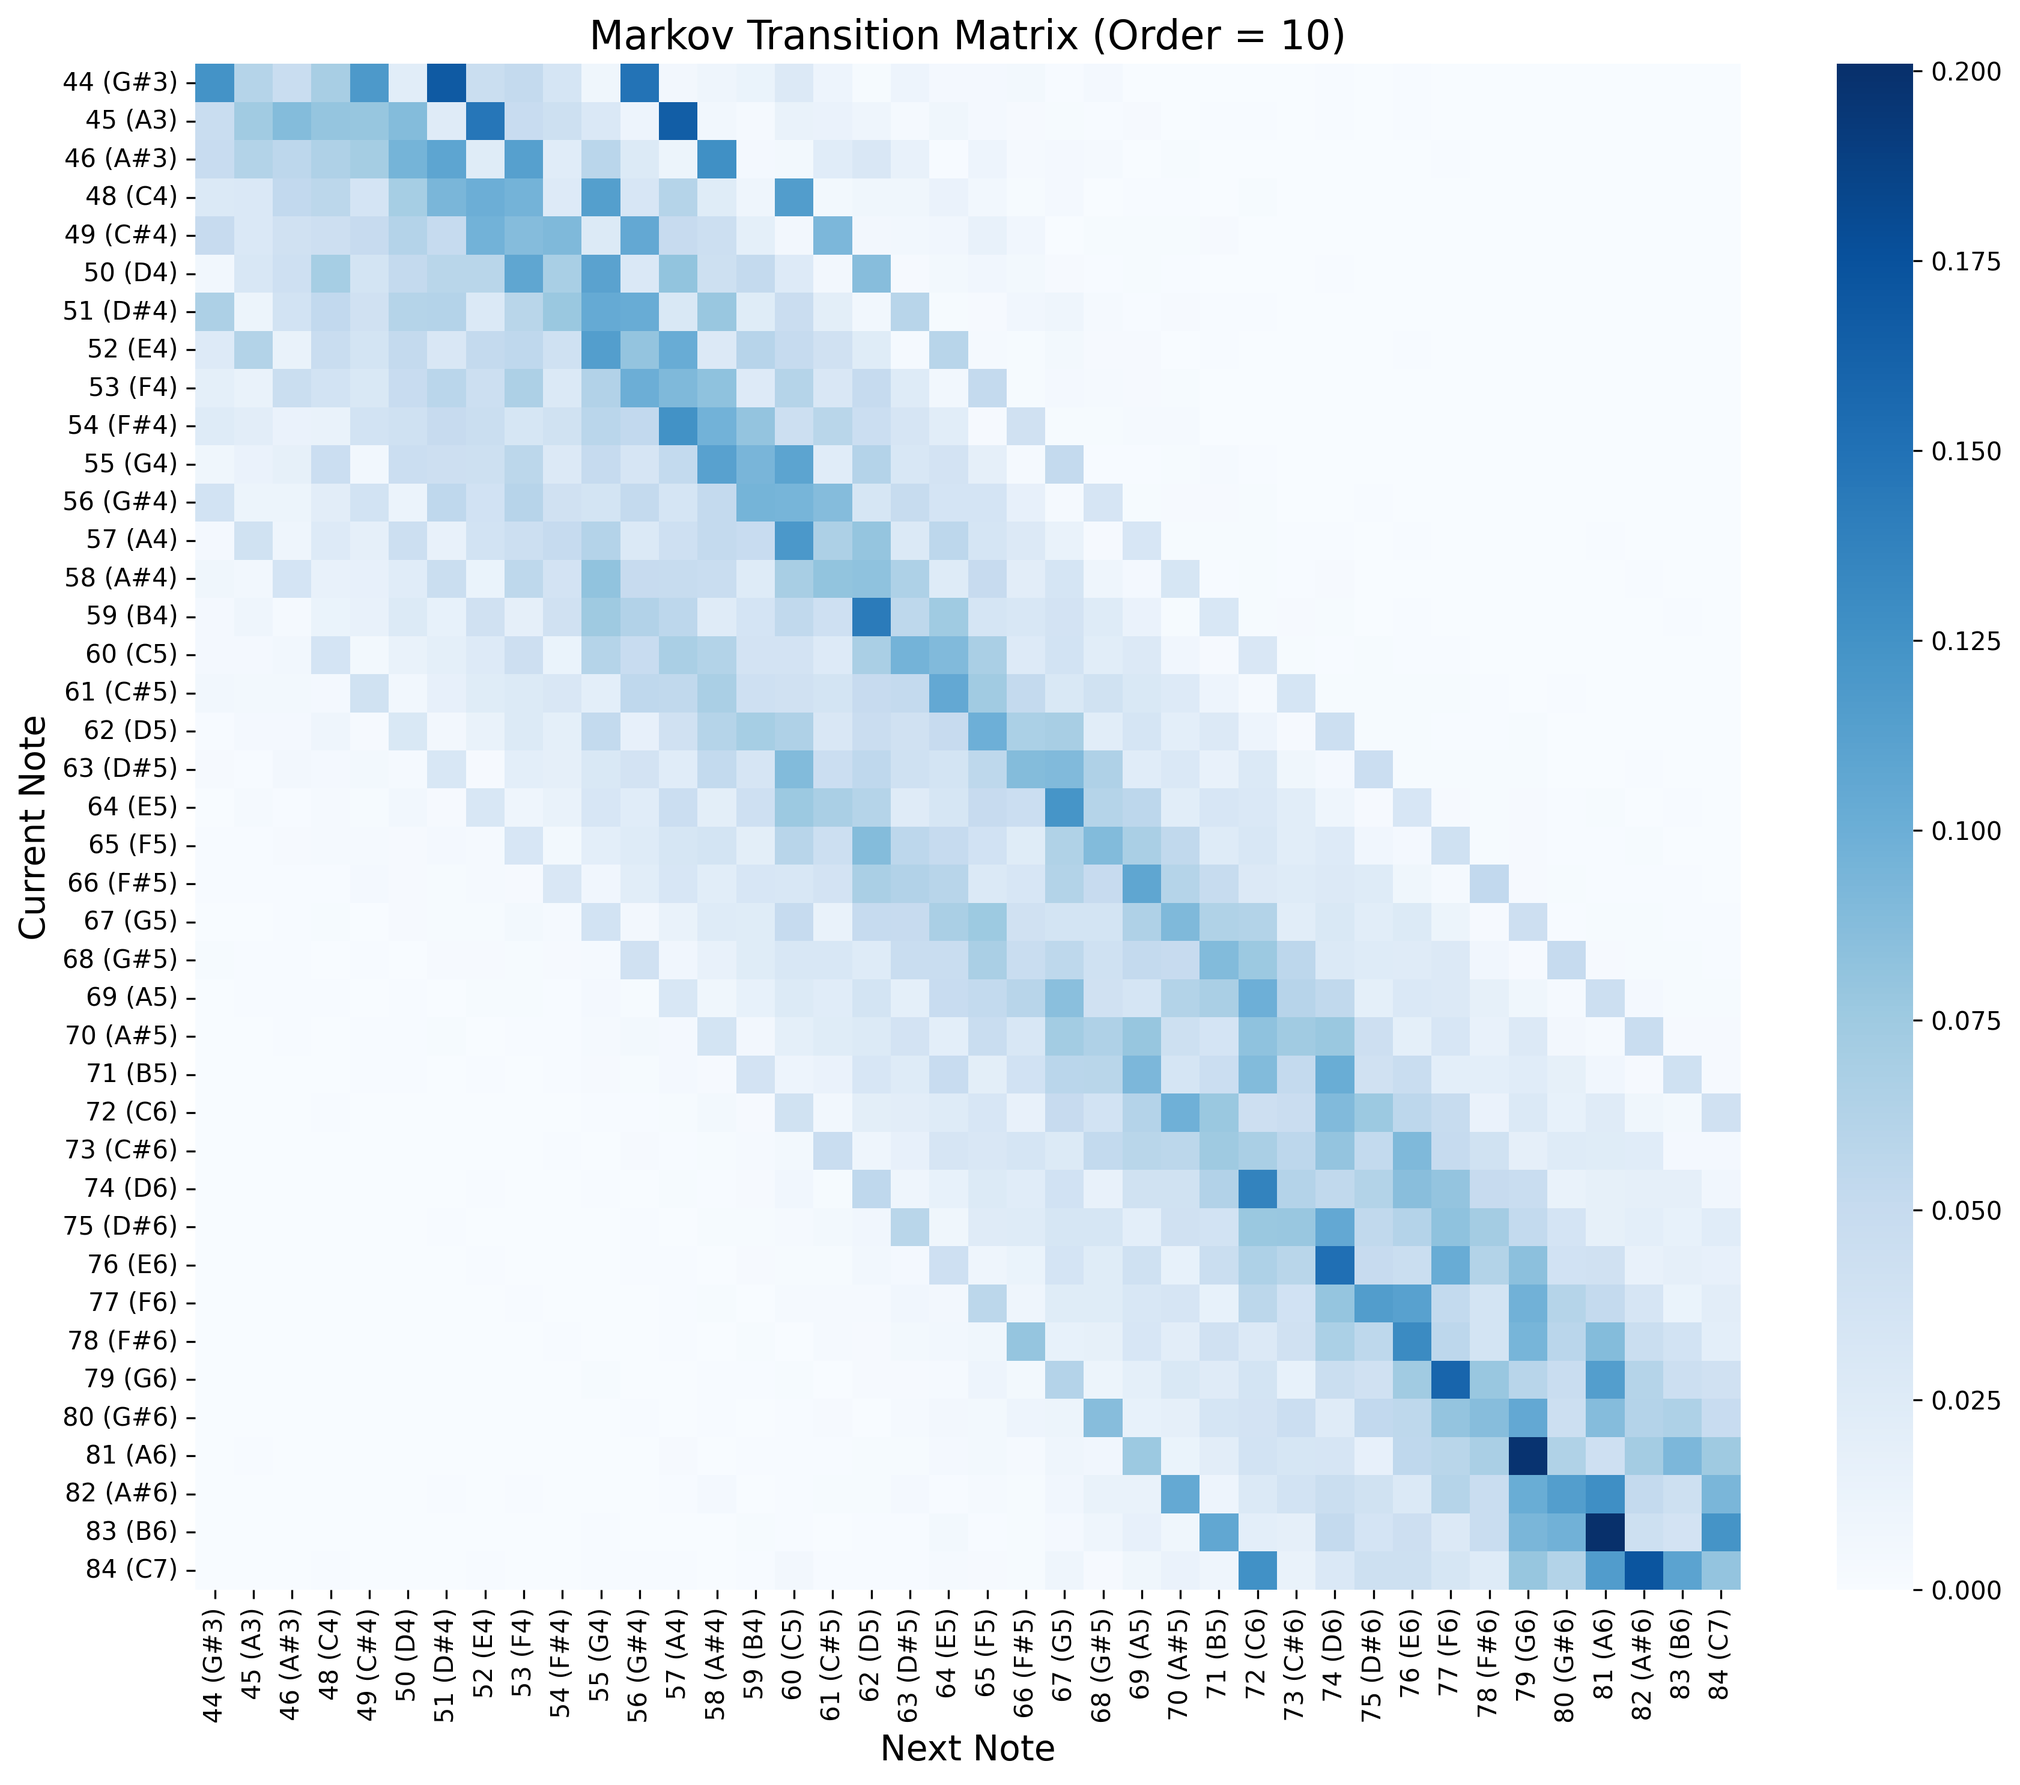
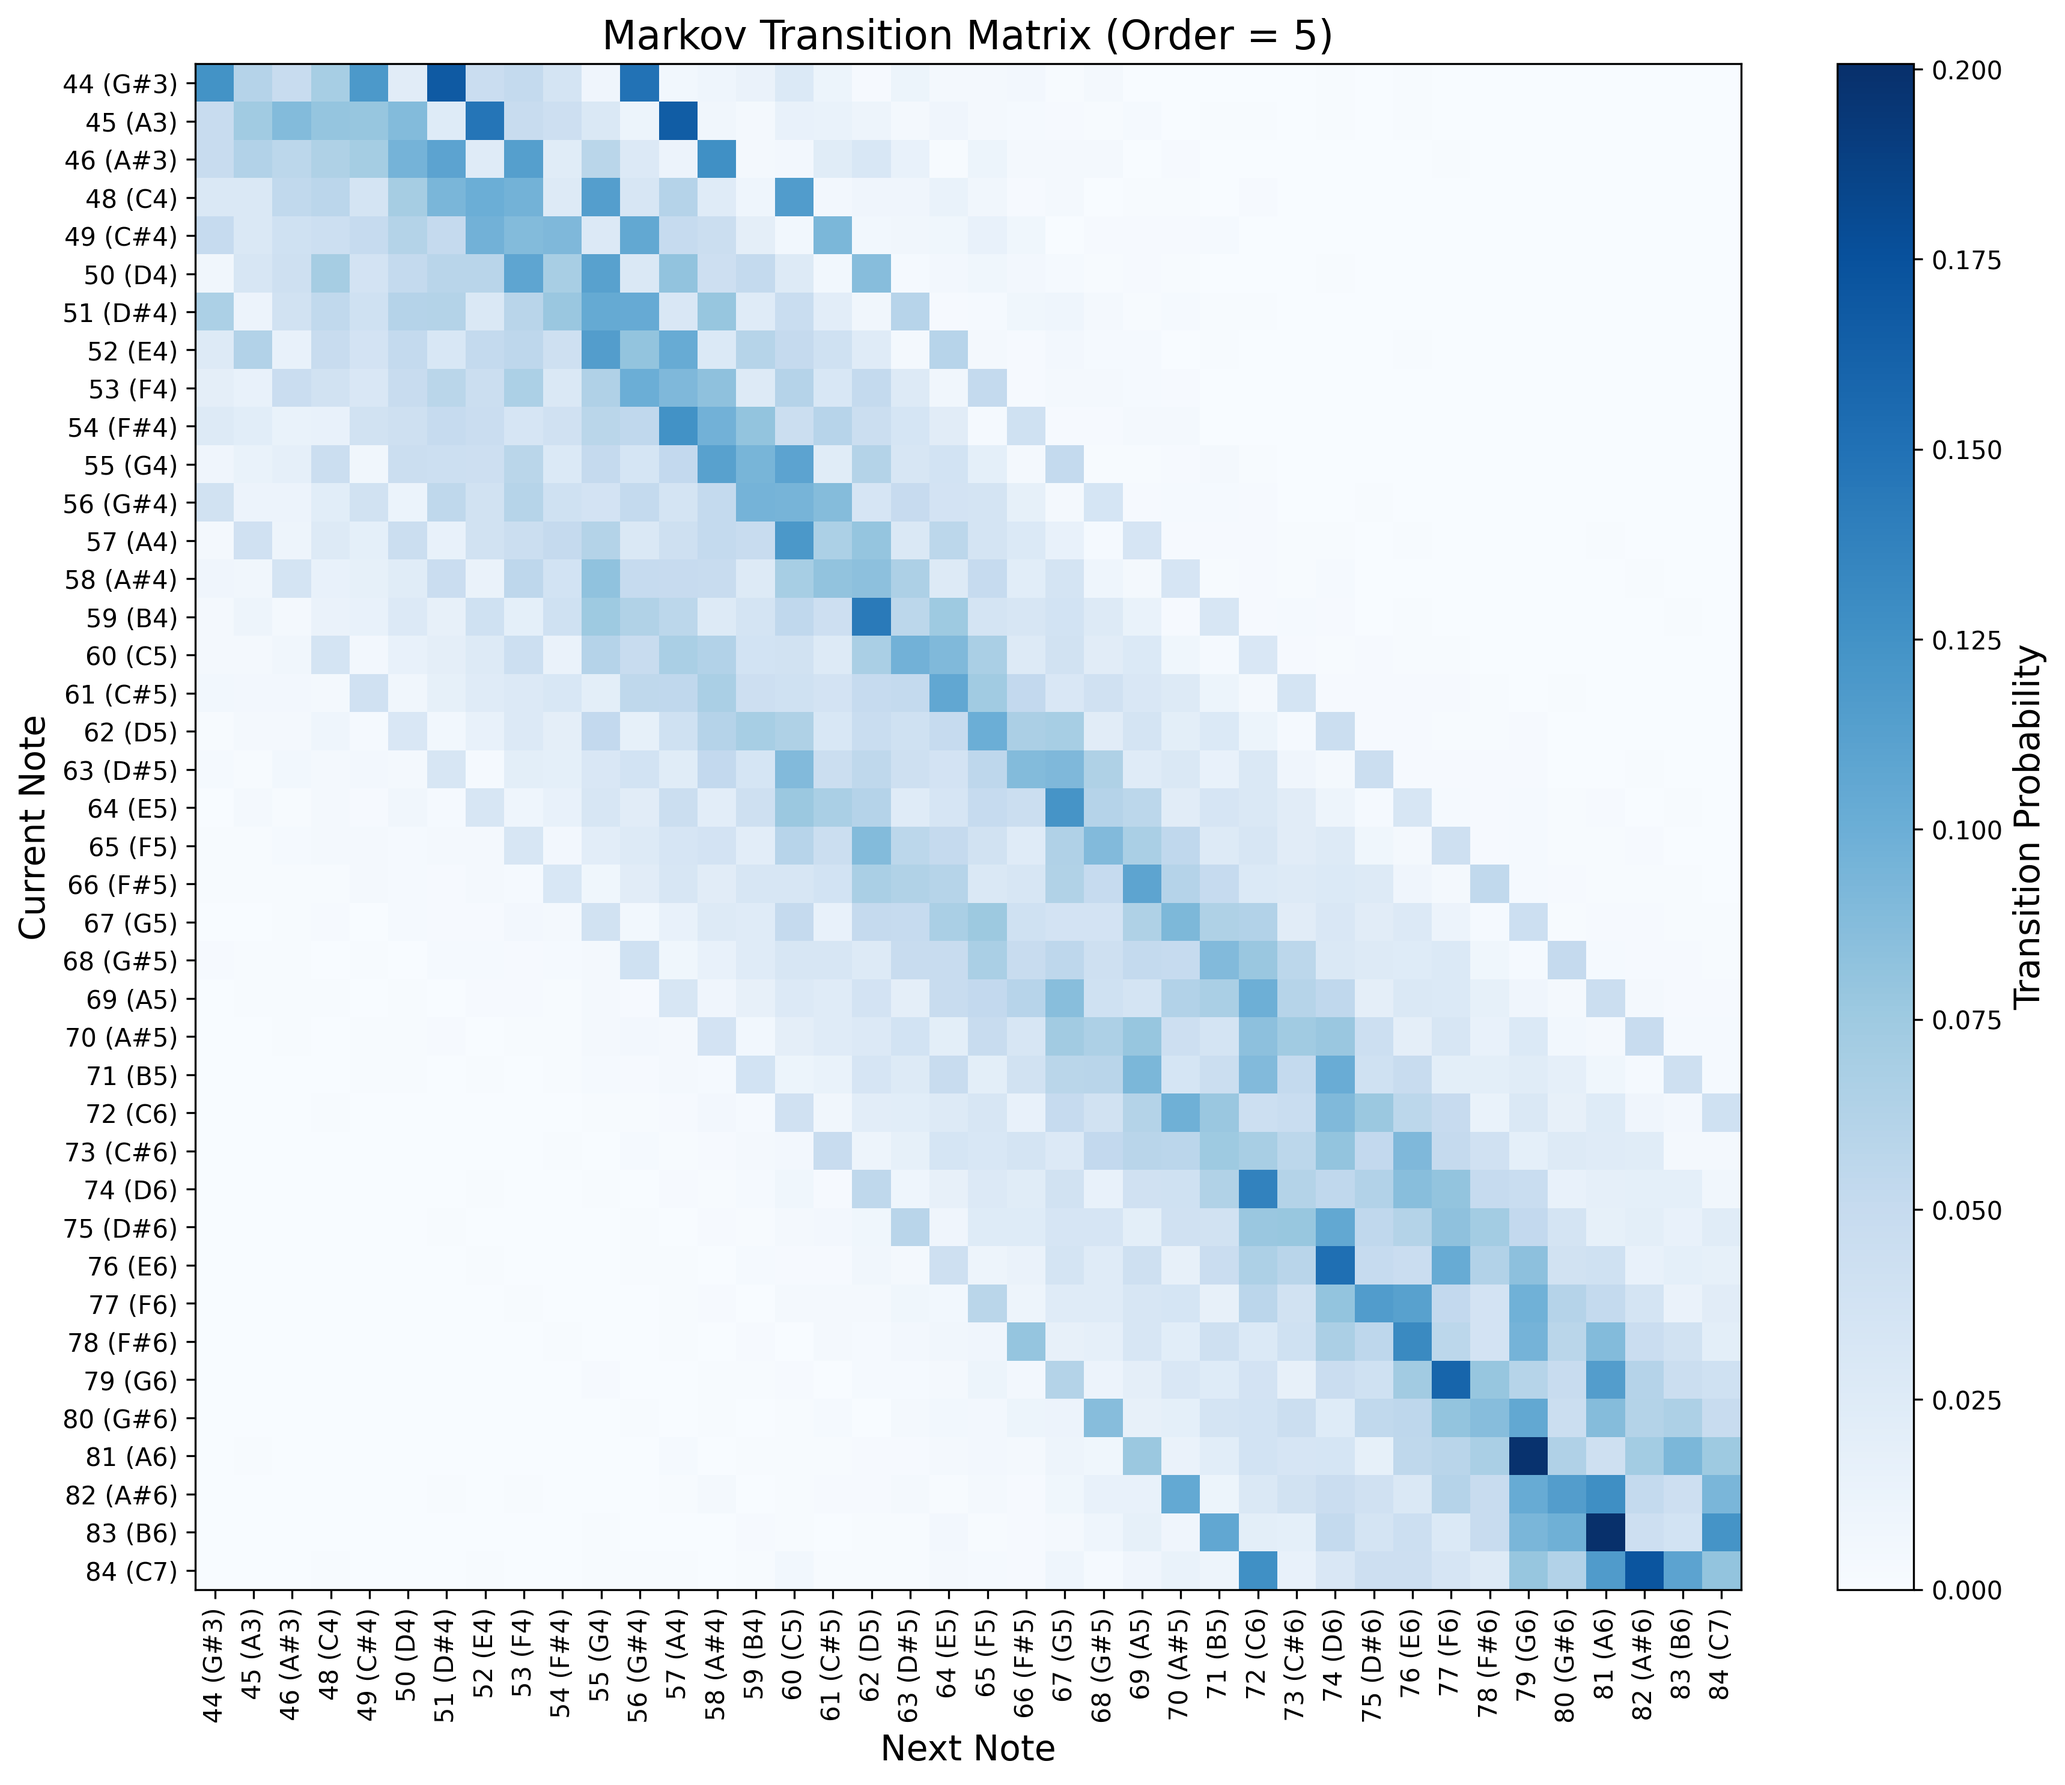
Update

diff --git a/theory.py b/theory.py
@@ -8,31 +8,22 @@ SCALES = { # scales as semitones up from root
     }
     
 PROGRESSIONS = { # common chord progressions (as scale degrees)
-    'major': [
-        [1, 4, 5, 1],  # I-IV-V-I
-        [1, 6, 4, 5],  # I-vi-IV-V
-        [1, 4, 6, 5],  # I-IV-vi-V
-        [6, 2, 5, 1],  # vi-ii-V-I
-        [1, 5, 6, 4],  # I-V-vi-IV
-    ],
-    'minor': [
-        [1, 4, 5, 1],  # i-iv-v-i
-        [1, 6, 3, 7],  # i-VI-III-VII
-        [1, 7, 6, 5],  # i-VII-VI-v
-        [1, 4, 7, 3],  # i-iv-VII-III
-        [6, 7, 3, 5],  # VI-VII-III-v
-    ]
-}
+    'major': [[1, 4, 5, 1],  # I-IV-V-I
+              [1, 6, 4, 5],  # I-vi-IV-V
+              [1, 4, 6, 5],  # I-IV-vi-V
+              [6, 2, 5, 1],  # vi-ii-V-I
+              [1, 5, 6, 4]],  # I-V-vi-IV
+    'minor': [[1, 4, 5, 1],  # i-iv-v-i
+              [1, 6, 3, 7],  # i-VI-III-VII
+              [1, 7, 6, 5],  # i-VII-VI-v
+              [1, 4, 7, 3],  # i-iv-VII-III
+              [6, 7, 3, 5]]  # VI-VII-III-v
+            }
 
 class MusicTheory:
-    """
-    Music theory basics for more informed melodic generation.
-    """
     @staticmethod
     def get_scale_notes(key, scale_type):
-        """
-        Get notes in a scale given key and scale type.
-        """
+        """Get notes in a scale given key and scale type."""
         base_note = key % 12  # normalize to octave
         intervals = SCALES.get(scale_type, SCALES['major']) # default major
         
@@ -48,18 +39,14 @@ class MusicTheory:
     
     @staticmethod
     def get_chord_notes(key, scale_degree, scale_type):
-        """
-        Get the notes in a chord based on scale degree. 
-        """
+        """Get the notes in a chord based on scale degree."""
         scale = MusicTheory.get_scale_notes(key, scale_type)
         
         # adjust for 1-based indexing of scale degrees
         degree_idx = scale_degree - 1
         
-        # get chord root note from the scale
+        # get chord root note from the scale, triad intervals are 1, 3, 5
         root_idx = degree_idx
-
-        # triad intervals are 1, 3, 5
         third_idx = (root_idx + 2) % 7
         fifth_idx = (root_idx + 4) % 7
         
@@ -77,17 +64,13 @@ class MusicTheory:
     
     @staticmethod
     def is_in_key(note, key, scale_type):
-        """
-        Check if note belongs to a specific key.
-        """
+        """Check if note belongs to a specific key."""
         scale_notes = MusicTheory.get_scale_notes(key, scale_type)
-        return note % 12 in [sn % 12 for sn in scale_notes]
+        return note % 12 in [scale_note % 12 for scale_note in scale_notes]
     
     @staticmethod
     def get_nearest_scale_note(note, key, scale_type):
-        """
-        Get nearest note that belongs to the scale.
-        """
+        """Get nearest note that belongs to the scale."""
         if MusicTheory.is_in_key(note, key, scale_type):
             return note
             
@@ -96,9 +79,7 @@ class MusicTheory:
     
     @staticmethod
     def generate_chord_progression(scale_type):
-        """
-        Generate random chord progression for a given key.
-        """
+        """Generate random chord progression for a given key."""
         if scale_type.endswith('minor'): progressions = PROGRESSIONS['minor']
         else: progressions = PROGRESSIONS['major']
         return random.choice(progressions)

diff --git a/utils.py b/utils.py
@@ -1,13 +1,13 @@
 import os
 import mido
 import numpy as np
-import seaborn as sns
 import matplotlib.pyplot as plt
 
 from collections import Counter, defaultdict
 from mido import MidiFile, MidiTrack, Message
 from sklearn.decomposition import PCA
 from sklearn.preprocessing import StandardScaler
+
 class MIDIProcessor:
     def __init__(self):
         """Class to extract note sequences from MIDI files."""
@@ -242,14 +242,17 @@ def visualize_transition_matrix(model, output_filename, max_notes=40):
     note_names = ['C', 'C#', 'D', 'D#', 'E', 'F', 'F#', 'G', 'G#', 'A', 'A#', 'B']
     labels = [f"{note} ({note_names[note % 12]}{note // 12})" for note in all_notes]
     
-    # make the heatmap
-    plt.figure(figsize=(12, 10))
-    sns.heatmap(matrix, cmap='Blues', xticklabels=labels, yticklabels=labels)
-    
-    plt.title(f"Markov Transition Matrix (Order = {model.order})", fontsize=16)
-    plt.xlabel("Next Note", fontsize=14)
-    plt.ylabel("Current Note", fontsize=14)
-    plt.xticks(rotation=90)
-    plt.yticks(rotation=0)
+    # plot the heatmap
+    fig, ax = plt.subplots(figsize=(12, 10))
+    cax = ax.imshow(matrix, cmap='Blues', aspect='auto')
+    cbar = fig.colorbar(cax)
+    cbar.set_label("Transition Probability", fontsize=14)
+    ax.set_title(f"Markov Transition Matrix (Order = {model.order})", fontsize=16)
+    ax.set_xlabel("Next Note", fontsize=14)
+    ax.set_ylabel("Current Note", fontsize=14)
+    ax.set_xticks(np.arange(len(labels)))
+    ax.set_yticks(np.arange(len(labels)))
+    ax.set_xticklabels(labels, rotation=90)
+    ax.set_yticklabels(labels)
     plt.tight_layout()
     plt.savefig(output_filename, dpi=300, bbox_inches='tight')

diff --git a/model.py b/model.py
@@ -5,15 +5,11 @@ from theory import MusicTheory
 
 class MarkovModel:    
     def __init__(self, order):
-        """
-        Initialize Markov Chain model; order of the Markov chain is how many 
-        previous notes to consider.
-        """
+        """Initialize Markov Chain model; order of the Markov chain is how many previous notes to consider."""
         self.order = order
         self.transitions = defaultdict(Counter)
         self.composers_transitions = {}
-        self.phrase_beginnings = []  # store phrase starting points
-        self.phrase_endings = []     # store phrase ending points
+        self.phrase_beginnings = self.phrase_endings = []  # store phrase starting/ending points
         self.theory = MusicTheory()  # ingrain theory into model
         
     def train(self, note_sequences, phrase_length):
@@ -43,9 +39,7 @@ class MarkovModel:
                 self.transitions[state][next_note] += 1 # update transition count
     
     def generate_melody(self, key, scale_type, melody_length=32, phrase_length=4):
-        """
-        Generate melody using Markov chain transitions, respecting musical structure and theory.
-        """
+        """Generate melody using Markov chain transitions, respecting musical structure and theory."""
         scale_notes = self.theory.get_scale_notes(key, scale_type)
         chord_progression = self.theory.generate_chord_progression(scale_type)
         notes_per_chord = phrase_length // len(chord_progression)

diff --git a/generate_melody.py b/generate_melody.py
@@ -44,9 +44,8 @@ all_sequences = processor.get_all_note_sequences()
 model = MarkovModel(order=5) # model of order 5 to inform decisions based on previous 5 notes
 all_note_sequences = []
 
-# combine all note sequences for training
 for composer_sequences in all_sequences.values():
-    all_note_sequences.extend(list(composer_sequences.values()))
+    all_note_sequences.extend(list(composer_sequences.values())) # combine all note sequences for training
 
 # train the model
 model.train(all_note_sequences, phrase_length=8)
@@ -60,6 +59,6 @@ model.train(all_note_sequences, phrase_length=8)
 # pca_results = pca_analyzer.fit_transform(composer_matrices)
 # pca_analyzer.plot_pca_results(pca_results) 
 
-# generate melodies based on a key and mode
+# generate melodies based on a key and mode; example use
 generate_melody('E', 'major')
 generate_melody('A', 'harmonic_minor')
